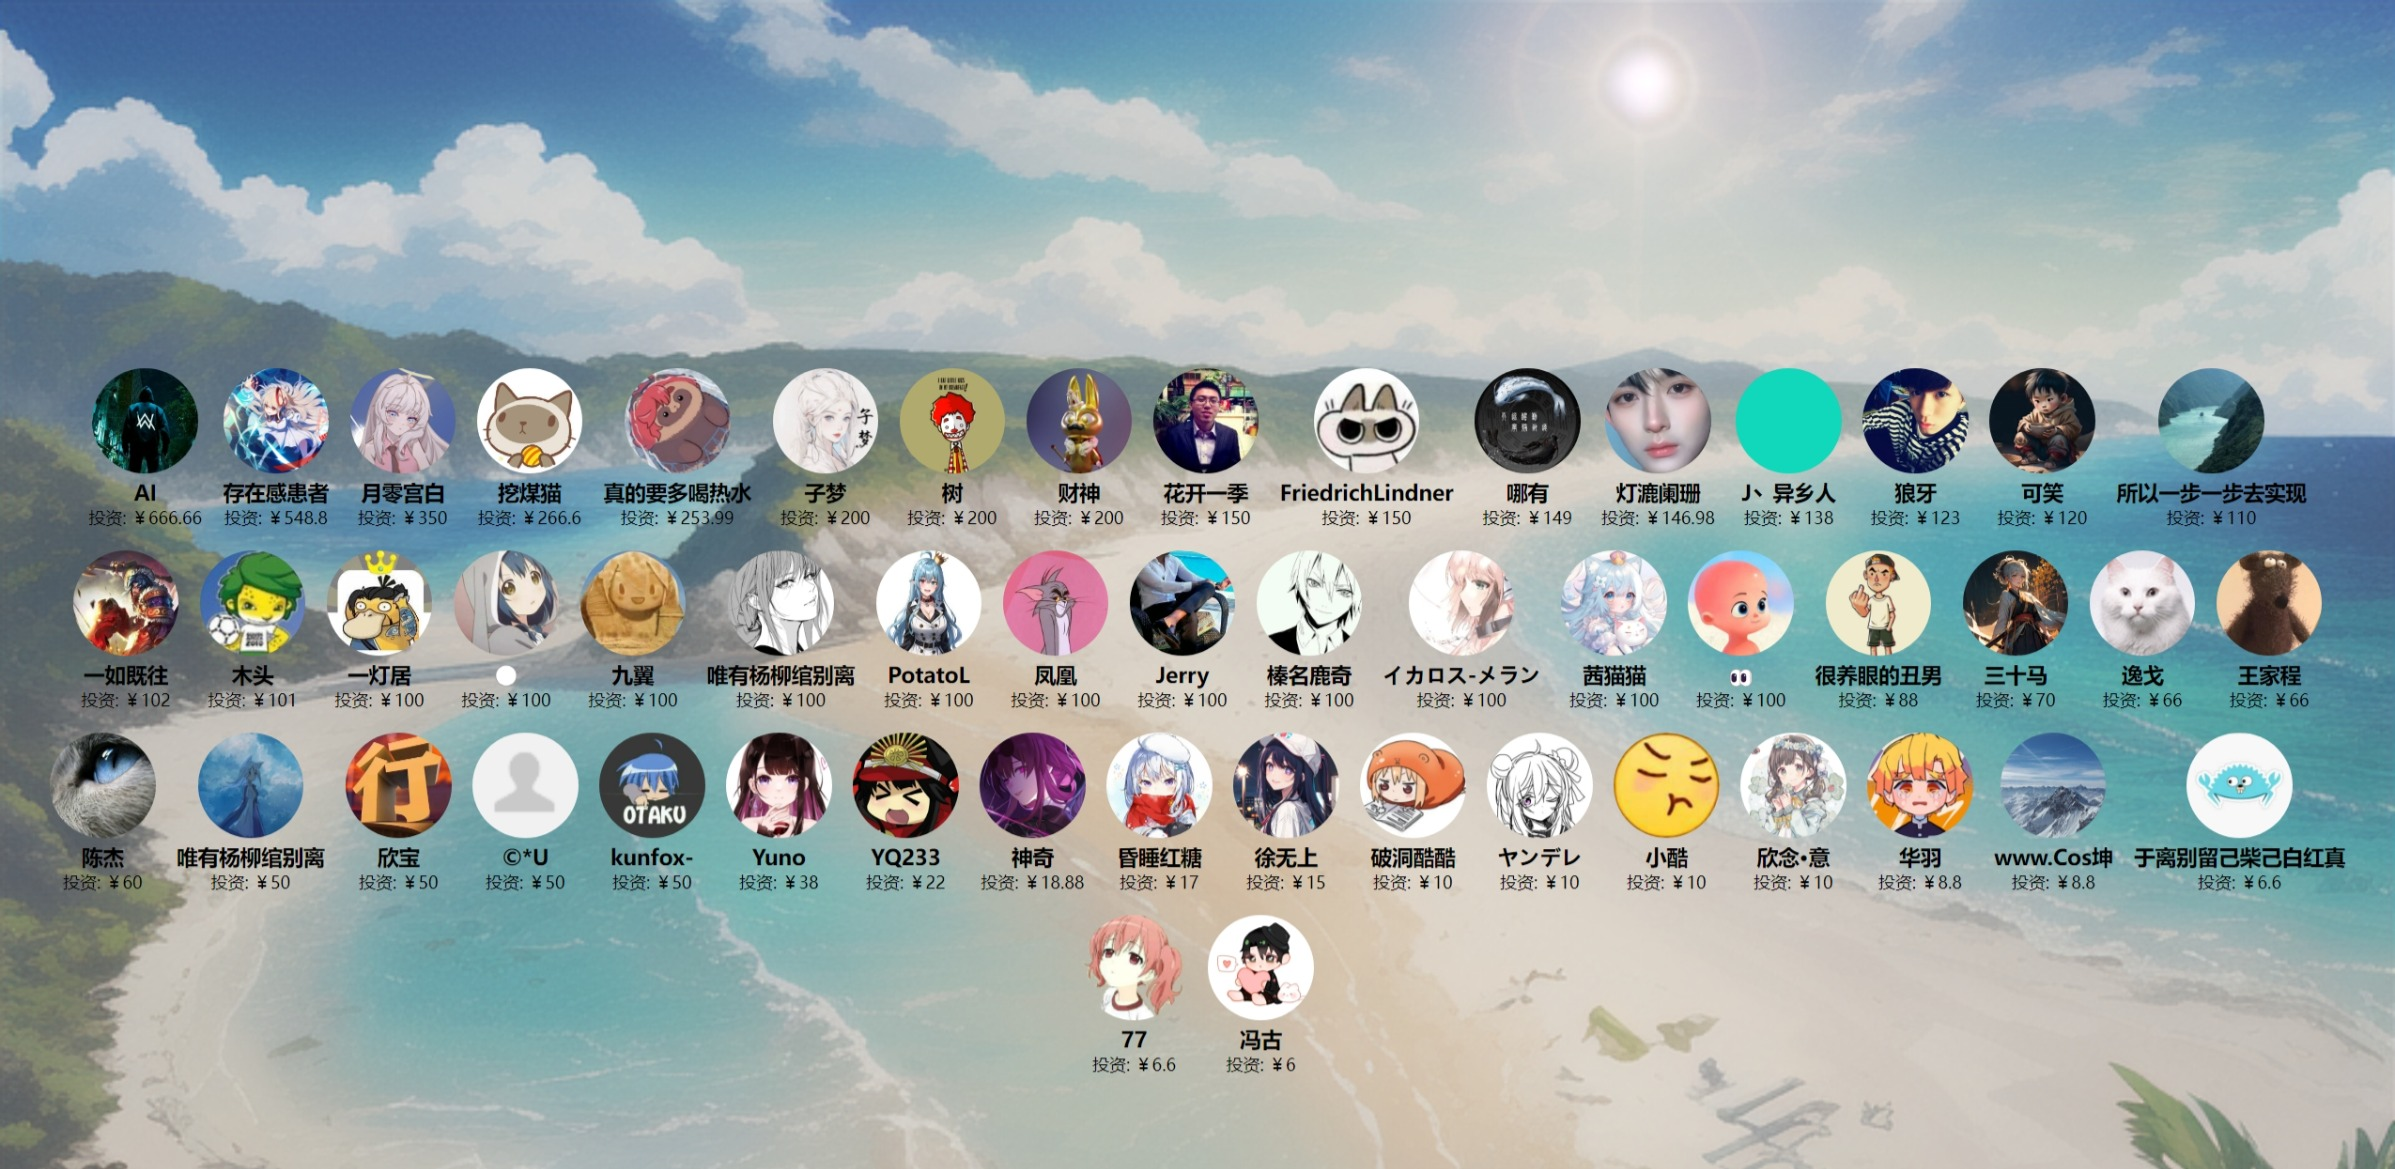
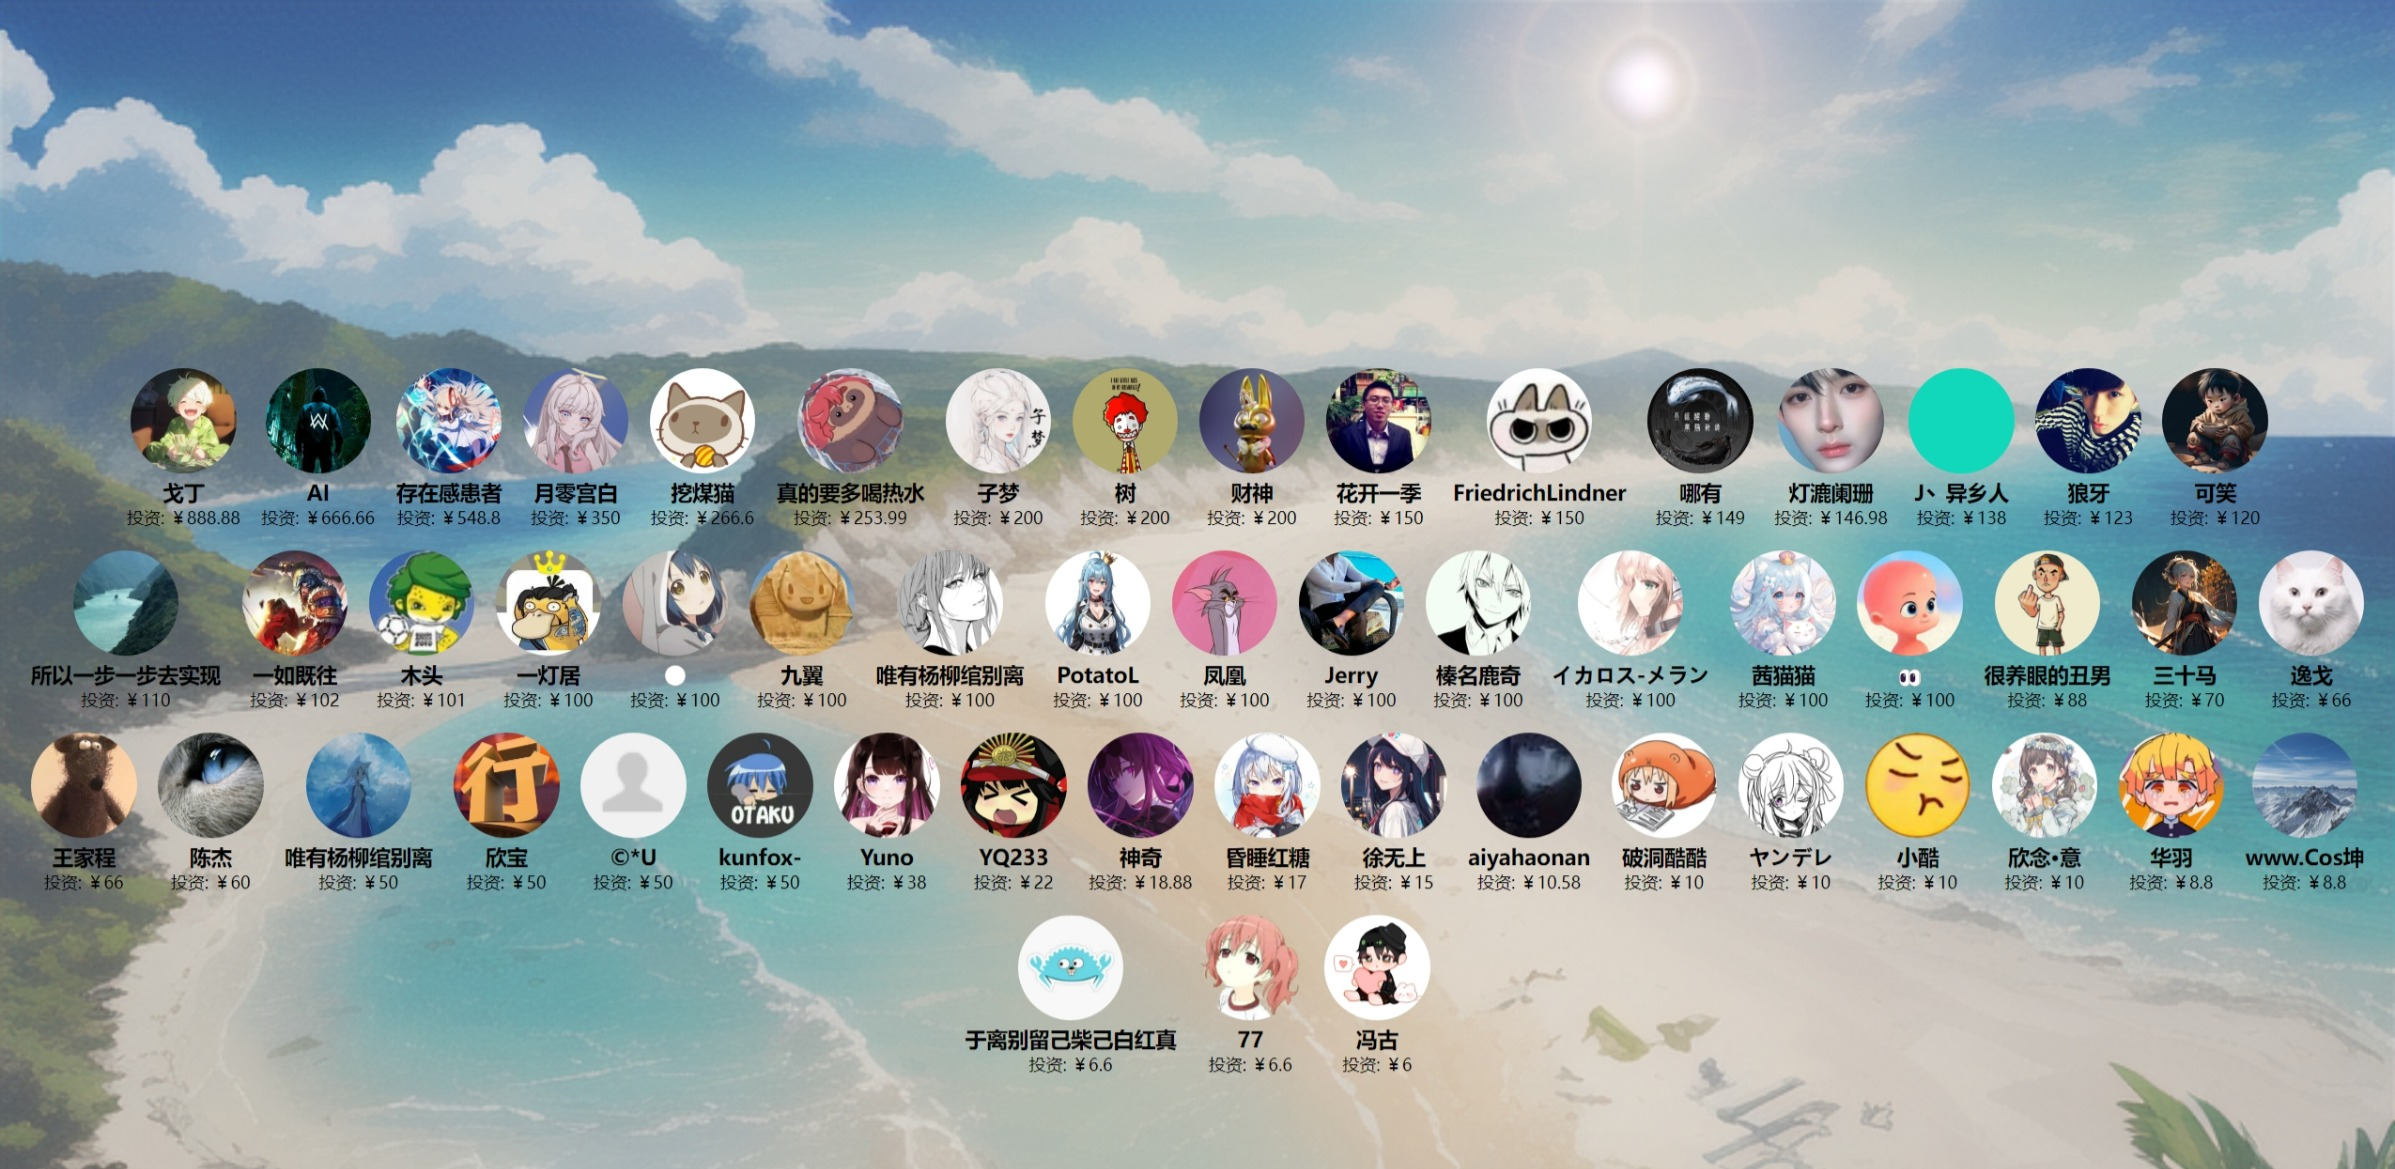
更新投资人

Changed region(s): [[0.0, 0.308, 0.9887, 0.9239]]

diff --git a/docs/投资人/index.html b/docs/投资人/index.html
@@ -52,6 +52,11 @@
     // 投资方数据
     const investorsData = [
         {
+            name: "戈丁",
+            avatar: "https://images.cnblogs.com/cnblogs_com/ikaros-521/2328032/o_231124143116_%E5%BE%AE%E4%BF%A1%E5%9B%BE%E7%89%87_20231124223002.jpg",
+            amount: "￥888.88"
+        },
+        {
             name: " AI",
             avatar: "https://images.cnblogs.com/cnblogs_com/ikaros-521/2328032/o_230722152412_QQ%E5%9B%BE%E7%89%8720230722232316.jpg",
             amount: "￥666.66"
@@ -265,6 +270,11 @@
             name: "徐无上",
             avatar: "https://images.cnblogs.com/cnblogs_com/ikaros-521/2328032/o_231119104314_QQ%E5%9B%BE%E7%89%8720231119184129.jpg",
             amount: "￥15"
+        },
+        {
+            name: "aiyahaonan",
+            avatar: "https://images.cnblogs.com/cnblogs_com/ikaros-521/2328032/o_231124143344_AgAABTM-uThDap69ASFOvLAtBgEukCXk.png",
+            amount: "￥10.58"
         },
         {
             name: "破洞酷酷",
